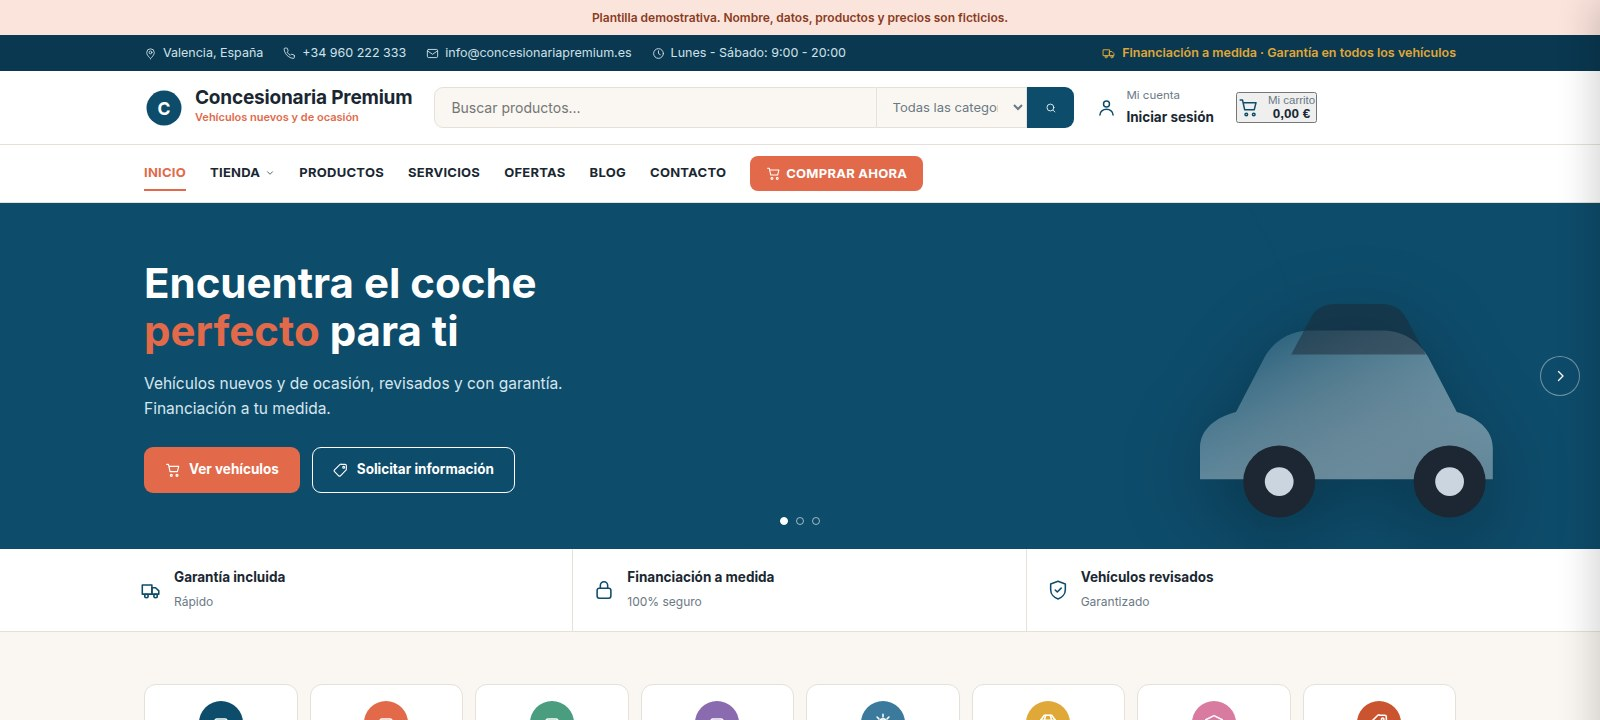
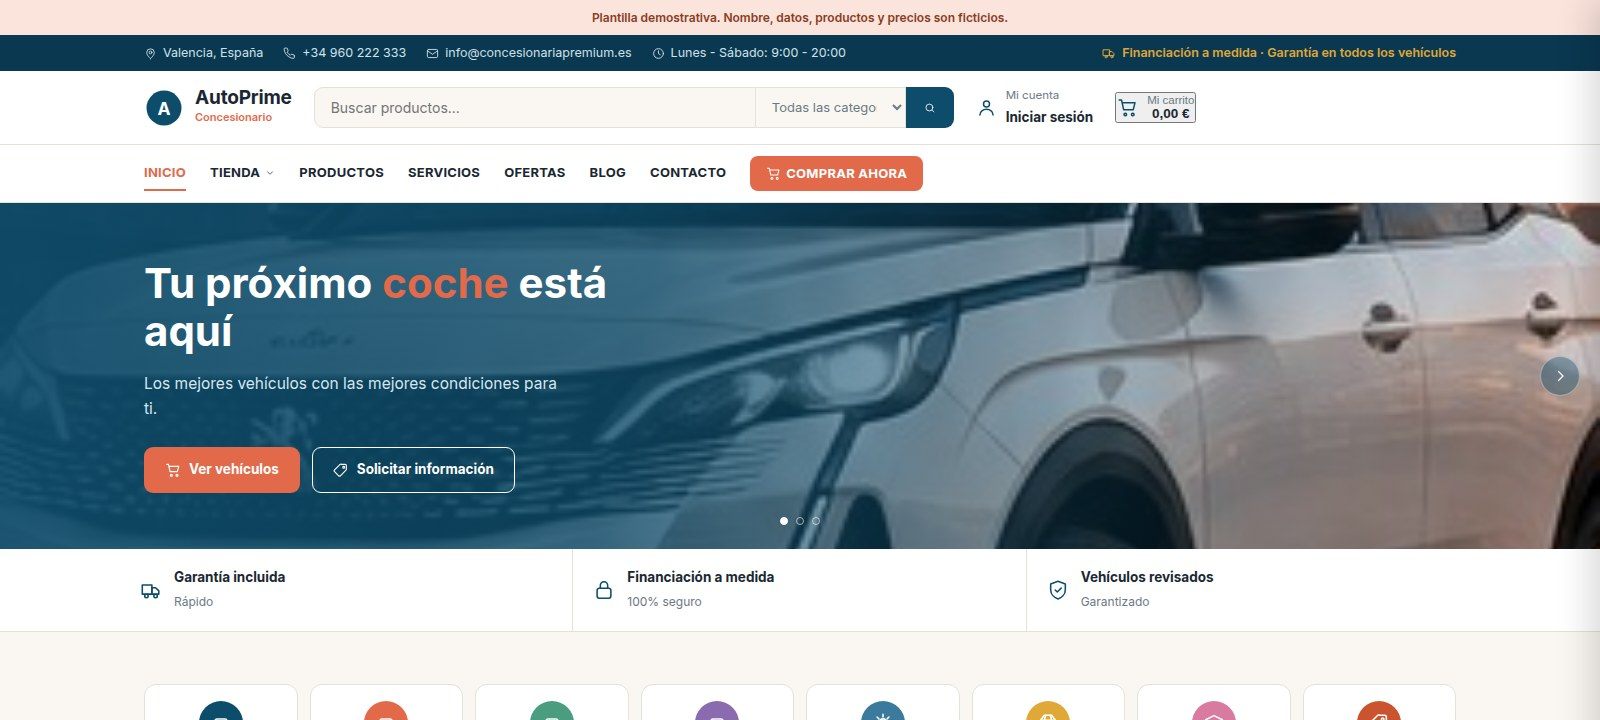
Fotos reales: AutoPrime (Concesionaria de Automóviles)

diff --git a/public/demos/concesionaria-premium/index.html b/public/demos/concesionaria-premium/index.html
@@ -3,7 +3,7 @@
 <head>
 <meta charset="UTF-8">
 <meta name="viewport" content="width=device-width, initial-scale=1.0">
-<title>Concesionaria Premium — Vehículos Nuevos y de Ocasión | Financiación</title>
+<title>AutoPrime — Concesionario | Vehículos Nuevos y de Ocasión</title>
 <meta name="description" content="Concesionaria de automóviles con vehículos nuevos y de ocasión, financiación a medida y garantía. Solicita información o prueba de conducción.">
 <link rel="stylesheet" href="css/style.css">
 </head>
@@ -29,9 +29,9 @@
   <div class="cab-fila1">
     <div class="env">
       <a href="#inicio" class="marca">
-        <svg width="40" height="40" viewBox="0 0 48 48" fill="none" aria-hidden="true"><circle cx="24" cy="24" r="21" fill="var(--azul)"/><text x="24" y="24" text-anchor="middle" dominant-baseline="central" font-family="Poppins, Inter, sans-serif" font-weight="700" font-size="21" fill="#fff">C</text></svg>        <span class="marca-txt">
-          <strong>Concesionaria Premium</strong>
-          <span>Vehículos nuevos y de ocasión</span>
+        <svg width="40" height="40" viewBox="0 0 48 48" fill="none" aria-hidden="true"><circle cx="24" cy="24" r="21" fill="var(--azul)"/><text x="24" y="24" text-anchor="middle" dominant-baseline="central" font-family="Poppins, Inter, sans-serif" font-weight="700" font-size="21" fill="#fff">A</text></svg>        <span class="marca-txt">
+          <strong>AutoPrime</strong>
+          <span>Concesionario</span>
         </span>
       </a>
       <div class="buscador">
@@ -68,13 +68,12 @@
 
 <!-- Portada -->
 <section class="portada" id="inicio">
-  <div class="portada-lienzo"><svg viewBox="0 0 800 560" preserveAspectRatio="xMidYMid slice" style="width:100%;height:100%" aria-hidden="true"><defs><radialGradient id="hg" cx="62%" cy="46%" r="55%"><stop offset="0%" stop-color="#0e4c6b" stop-opacity=".28"/><stop offset="100%" stop-color="#0e4c6b" stop-opacity="0"/></radialGradient></defs><rect width="800" height="560" fill="var(--azul)"/><circle cx="500" cy="280" r="260" fill="url(#hg)"/><circle cx="500" cy="280" r="210" fill="none" stroke="#0e4c6b" stroke-opacity=".18"/><circle cx="500" cy="280" r="150" fill="none" stroke="#0e4c6b" stroke-opacity=".12"/></svg></div>
-    <div class="portada-figuras portada-figuras-escena" aria-hidden="true"><svg viewBox="0 0 300 300" style="width:100%;height:100%;overflow:visible" aria-hidden="true"><defs><linearGradient id="gbbc634" x1="0" y1="0" x2="1" y2="1"><stop offset="0%" stop-color="#0e4c6b"/><stop offset="100%" stop-color="#fff" stop-opacity=".35"/></linearGradient></defs><path d="M20 210c0-16 14-26 30-30l24-46c8-14 22-22 38-22h60c16 0 30 8 38 22l24 46c16 4 30 14 30 30v26H20z" fill="url(#gbbc634)"/><path d="M96 132l16-30c4-8 12-12 20-12h40c8 0 16 4 20 12l16 30z" fill="#1c2733" opacity=".5"/><circle cx="86" cy="238" r="30" fill="#1c2733"/><circle cx="86" cy="238" r="12" fill="#cbd5df"/><circle cx="228" cy="238" r="30" fill="#1c2733"/><circle cx="228" cy="238" r="12" fill="#cbd5df"/></svg></div>
+  <div class="portada-lienzo"><img src="img/hero.jpg" alt="" loading="lazy"></div>
     <div class="portada-vel"></div>
   <div class="env">
     <div class="portada-in">
-      <h1>Encuentra el coche <em>perfecto</em> para ti</h1>
-      <p>Vehículos nuevos y de ocasión, revisados y con garantía. Financiación a tu medida.</p>
+      <h1>Tu próximo <em>coche</em> está aquí</h1>
+      <p>Los mejores vehículos con las mejores condiciones para ti.</p>
       <div class="portada-botones">
         <a href="#tienda" class="btn btn-terra"><svg width="16" height="16" viewBox="0 0 24 24" fill="none" stroke="currentColor" stroke-width="1.7" stroke-linecap="round" stroke-linejoin="round" aria-hidden="true"><circle cx="9.5" cy="20" r="1.5"/><circle cx="18" cy="20" r="1.5"/><path d="M2.5 3.5h2.7l2.4 11h11l2-8H6.3"/></svg>Ver vehículos</a>
         <a href="#servicios" class="btn btn-linea" style="background:transparent;border-color:#fff;color:#fff">
@@ -155,81 +154,97 @@
         <div class="productos">
                       <article class="prod">
               <div class="prod-foto">
-                <div style="width:100%;height:140px;display:flex;align-items:center;justify-content:center;background:var(--crema2);color:var(--azul-cla)"><svg width="30" height="30" viewBox="0 0 24 24" fill="none" stroke="currentColor" stroke-width="1.7" stroke-linecap="round" stroke-linejoin="round" aria-hidden="true"><path d="M3.5 16.5v-3l2-4.5a2 2 0 0 1 1.9-1.3h9.2a2 2 0 0 1 1.9 1.3l2 4.5v3"/><path d="M3.5 16.5h17M3.5 13.5h17"/><circle cx="7" cy="17.5" r="1.7"/><circle cx="17" cy="17.5" r="1.7"/></svg></div>                <span class="prod-eti eti-nuevo">NUEVO</span>                <button type="button" class="fav" aria-label="Añadir a favoritos" data-fav>♥</button>
+                <img src="img/audi-q3.jpg" alt="" loading="lazy">                <span class="prod-eti eti-nuevo">NUEVO</span>                <button type="button" class="fav" aria-label="Añadir a favoritos" data-fav>♥</button>
               </div>
               <div class="prod-cuerpo">
-                <h3>Renault Clio 2024 — 0km</h3>
+                <h3>Audi Q3 35 TFSI Advanced</h3>
                 <div class="estrellas-fila">
                   <span class="estrellas">★★★★★</span>
-                  <span class="num-valoraciones">(38)</span>
+                  <span class="num-valoraciones">(31)</span>
                 </div>
                 <div class="prod-pie">
-                  <span class="prod-precio">16900€</span>
+                  <span class="prod-precio">28900€</span>
                   <button type="button" class="anadir" data-id="p0" aria-label="Añadir al carrito"><svg width="16" height="16" viewBox="0 0 24 24" fill="none" stroke="currentColor" stroke-width="1.7" stroke-linecap="round" stroke-linejoin="round" aria-hidden="true"><circle cx="9.5" cy="20" r="1.5"/><circle cx="18" cy="20" r="1.5"/><path d="M2.5 3.5h2.7l2.4 11h11l2-8H6.3"/></svg></button>
                 </div>
               </div>
             </article>
                       <article class="prod">
               <div class="prod-foto">
-                <div style="width:100%;height:140px;display:flex;align-items:center;justify-content:center;background:var(--crema2);color:var(--azul-cla)"><svg width="30" height="30" viewBox="0 0 24 24" fill="none" stroke="currentColor" stroke-width="1.7" stroke-linecap="round" stroke-linejoin="round" aria-hidden="true"><path d="M3.5 16.5v-3l2-4.5a2 2 0 0 1 1.9-1.3h9.2a2 2 0 0 1 1.9 1.3l2 4.5v3"/><path d="M3.5 16.5h17M3.5 13.5h17"/><circle cx="7" cy="17.5" r="1.7"/><circle cx="17" cy="17.5" r="1.7"/></svg></div>                <span class="prod-eti eti-nuevo">-9%</span>                <button type="button" class="fav" aria-label="Añadir a favoritos" data-fav>♥</button>
+                <img src="img/bmw-serie1.jpg" alt="" loading="lazy">                <span class="prod-eti eti-nuevo">ÚNICO DUEÑO</span>                <button type="button" class="fav" aria-label="Añadir a favoritos" data-fav>♥</button>
               </div>
               <div class="prod-cuerpo">
-                <h3>Volkswagen Tiguan 2022 — Ocasión</h3>
+                <h3>BMW Serie 1 118i Sport</h3>
                 <div class="estrellas-fila">
                   <span class="estrellas">★★★★★</span>
-                  <span class="num-valoraciones">(22)</span>
+                  <span class="num-valoraciones">(19)</span>
                 </div>
                 <div class="prod-pie">
-                  <span class="prod-precio">24900€<small>27500€</small></span>
+                  <span class="prod-precio">21500€</span>
                   <button type="button" class="anadir" data-id="p1" aria-label="Añadir al carrito"><svg width="16" height="16" viewBox="0 0 24 24" fill="none" stroke="currentColor" stroke-width="1.7" stroke-linecap="round" stroke-linejoin="round" aria-hidden="true"><circle cx="9.5" cy="20" r="1.5"/><circle cx="18" cy="20" r="1.5"/><path d="M2.5 3.5h2.7l2.4 11h11l2-8H6.3"/></svg></button>
                 </div>
               </div>
             </article>
                       <article class="prod">
               <div class="prod-foto">
-                <div style="width:100%;height:140px;display:flex;align-items:center;justify-content:center;background:var(--crema2);color:var(--azul-cla)"><svg width="30" height="30" viewBox="0 0 24 24" fill="none" stroke="currentColor" stroke-width="1.7" stroke-linecap="round" stroke-linejoin="round" aria-hidden="true"><path d="M3.5 16.5v-3l2-4.5a2 2 0 0 1 1.9-1.3h9.2a2 2 0 0 1 1.9 1.3l2 4.5v3"/><path d="M3.5 16.5h17M3.5 13.5h17"/><circle cx="7" cy="17.5" r="1.7"/><circle cx="17" cy="17.5" r="1.7"/></svg></div>                <span class="prod-eti eti-top">TOP</span>                <button type="button" class="fav" aria-label="Añadir a favoritos" data-fav>♥</button>
+                <img src="img/vw-troc.jpg" alt="" loading="lazy">                <span class="prod-eti eti-nuevo">NUEVO</span>                <button type="button" class="fav" aria-label="Añadir a favoritos" data-fav>♥</button>
               </div>
               <div class="prod-cuerpo">
-                <h3>Peugeot 208 2023 — Km 0</h3>
+                <h3>Volkswagen T-Roc 1.5 TSI Style</h3>
                 <div class="estrellas-fila">
                   <span class="estrellas">★★★★★</span>
-                  <span class="num-valoraciones">(29)</span>
+                  <span class="num-valoraciones">(27)</span>
                 </div>
                 <div class="prod-pie">
-                  <span class="prod-precio">17500€</span>
+                  <span class="prod-precio">29900€</span>
                   <button type="button" class="anadir" data-id="p2" aria-label="Añadir al carrito"><svg width="16" height="16" viewBox="0 0 24 24" fill="none" stroke="currentColor" stroke-width="1.7" stroke-linecap="round" stroke-linejoin="round" aria-hidden="true"><circle cx="9.5" cy="20" r="1.5"/><circle cx="18" cy="20" r="1.5"/><path d="M2.5 3.5h2.7l2.4 11h11l2-8H6.3"/></svg></button>
                 </div>
               </div>
             </article>
                       <article class="prod">
               <div class="prod-foto">
-                <div style="width:100%;height:140px;display:flex;align-items:center;justify-content:center;background:var(--crema2);color:var(--azul-cla)"><svg width="30" height="30" viewBox="0 0 24 24" fill="none" stroke="currentColor" stroke-width="1.7" stroke-linecap="round" stroke-linejoin="round" aria-hidden="true"><circle cx="12" cy="12" r="4.5"/><path d="M12 2.5v3M12 18.5v3M21.5 12h-3M5.5 12h-3M18.5 5.5l-2 2M7.5 16.5l-2 2M18.5 18.5l-2-2M7.5 7.5l-2-2"/></svg></div>                <span class="prod-eti eti-nuevo">-9%</span>                <button type="button" class="fav" aria-label="Añadir a favoritos" data-fav>♥</button>
+                <img src="img/mercedes-clasea.jpg" alt="" loading="lazy">                <span class="prod-eti eti-oferta">OFERTA</span>                <button type="button" class="fav" aria-label="Añadir a favoritos" data-fav>♥</button>
               </div>
               <div class="prod-cuerpo">
-                <h3>Tesla Model Y 2023 — Ocasión</h3>
+                <h3>Mercedes Clase A 180 Style</h3>
                 <div class="estrellas-fila">
-                  <span class="estrellas">★★★★★</span>
-                  <span class="num-valoraciones">(14)</span>
+                  <span class="estrellas">★★★★☆</span>
+                  <span class="num-valoraciones">(16)</span>
                 </div>
                 <div class="prod-pie">
-                  <span class="prod-precio">38900€<small>42900€</small></span>
+                  <span class="prod-precio">24900€</span>
                   <button type="button" class="anadir" data-id="p3" aria-label="Añadir al carrito"><svg width="16" height="16" viewBox="0 0 24 24" fill="none" stroke="currentColor" stroke-width="1.7" stroke-linecap="round" stroke-linejoin="round" aria-hidden="true"><circle cx="9.5" cy="20" r="1.5"/><circle cx="18" cy="20" r="1.5"/><path d="M2.5 3.5h2.7l2.4 11h11l2-8H6.3"/></svg></button>
                 </div>
               </div>
             </article>
                       <article class="prod">
               <div class="prod-foto">
-                <div style="width:100%;height:140px;display:flex;align-items:center;justify-content:center;background:var(--crema2);color:var(--azul-cla)"><svg width="30" height="30" viewBox="0 0 24 24" fill="none" stroke="currentColor" stroke-width="1.7" stroke-linecap="round" stroke-linejoin="round" aria-hidden="true"><path d="M3.5 16.5v-3l2-4.5a2 2 0 0 1 1.9-1.3h9.2a2 2 0 0 1 1.9 1.3l2 4.5v3"/><path d="M3.5 16.5h17M3.5 13.5h17"/><circle cx="7" cy="17.5" r="1.7"/><circle cx="17" cy="17.5" r="1.7"/></svg></div>                                <button type="button" class="fav" aria-label="Añadir a favoritos" data-fav>♥</button>
+                <img src="img/toyota-chr.jpg" alt="" loading="lazy">                <span class="prod-eti eti-nuevo">KM 0</span>                <button type="button" class="fav" aria-label="Añadir a favoritos" data-fav>♥</button>
               </div>
               <div class="prod-cuerpo">
-                <h3>Audi A3 2021 — Ocasión</h3>
+                <h3>Toyota C-HR 125H Advance</h3>
                 <div class="estrellas-fila">
-                  <span class="estrellas">★★★★☆</span>
-                  <span class="num-valoraciones">(18)</span>
+                  <span class="estrellas">★★★★★</span>
+                  <span class="num-valoraciones">(22)</span>
                 </div>
                 <div class="prod-pie">
-                  <span class="prod-precio">21900€</span>
+                  <span class="prod-precio">26900€</span>
                   <button type="button" class="anadir" data-id="p4" aria-label="Añadir al carrito"><svg width="16" height="16" viewBox="0 0 24 24" fill="none" stroke="currentColor" stroke-width="1.7" stroke-linecap="round" stroke-linejoin="round" aria-hidden="true"><circle cx="9.5" cy="20" r="1.5"/><circle cx="18" cy="20" r="1.5"/><path d="M2.5 3.5h2.7l2.4 11h11l2-8H6.3"/></svg></button>
+                </div>
+              </div>
+            </article>
+                      <article class="prod">
+              <div class="prod-foto">
+                <img src="img/ford-kuga.jpg" alt="" loading="lazy">                <span class="prod-eti eti-nuevo">TURBO</span>                <button type="button" class="fav" aria-label="Añadir a favoritos" data-fav>♥</button>
+              </div>
+              <div class="prod-cuerpo">
+                <h3>Ford Kuga 1.5 EcoBoost ST-Line</h3>
+                <div class="estrellas-fila">
+                  <span class="estrellas">★★★★★</span>
+                  <span class="num-valoraciones">(14)</span>
+                </div>
+                <div class="prod-pie">
+                  <span class="prod-precio">23900€</span>
+                  <button type="button" class="anadir" data-id="p5" aria-label="Añadir al carrito"><svg width="16" height="16" viewBox="0 0 24 24" fill="none" stroke="currentColor" stroke-width="1.7" stroke-linecap="round" stroke-linejoin="round" aria-hidden="true"><circle cx="9.5" cy="20" r="1.5"/><circle cx="18" cy="20" r="1.5"/><path d="M2.5 3.5h2.7l2.4 11h11l2-8H6.3"/></svg></button>
                 </div>
               </div>
             </article>
@@ -331,7 +346,7 @@
     <div class="pie-rejilla">
       <div>
         <div class="marca" style="margin-bottom:14px">
-          <svg width="36" height="36" viewBox="0 0 48 48" fill="none" aria-hidden="true"><circle cx="24" cy="24" r="21" fill="var(--azul)"/><text x="24" y="24" text-anchor="middle" dominant-baseline="central" font-family="Poppins, Inter, sans-serif" font-weight="700" font-size="21" fill="#fff">C</text></svg>          <span class="marca-txt"><strong>Concesionaria Premium</strong></span>
+          <svg width="36" height="36" viewBox="0 0 48 48" fill="none" aria-hidden="true"><circle cx="24" cy="24" r="21" fill="var(--azul)"/><text x="24" y="24" text-anchor="middle" dominant-baseline="central" font-family="Poppins, Inter, sans-serif" font-weight="700" font-size="21" fill="#fff">A</text></svg>          <span class="marca-txt"><strong>AutoPrime</strong></span>
         </div>
         <p>Avenida de las Cortes Valencianas, 45 · 46015 Valencia<br>+34 960 222 333<br>info@concesionariapremium.es</p>
       </div>
@@ -357,7 +372,7 @@
               </div>
     </div>
     <div class="pie-abajo">
-      <span>© <span id="anio">2026</span> Concesionaria Premium. Todos los derechos reservados.</span>
+      <span>© <span id="anio">2026</span> AutoPrime. Todos los derechos reservados.</span>
       <span>Plantilla demostrativa · Aviso legal · Privacidad · Cookies</span>
     </div>
   </div>
@@ -376,8 +391,8 @@
 
   <a class="wa" href="https://wa.me/34600222333?text=Hola%2C%20quiero%20informaci%C3%B3n%20sobre%20un%20veh%C3%ADculo." target="_blank" rel="noopener" aria-label="WhatsApp"><svg width="26" height="26" viewBox="0 0 24 24" fill="none" stroke="currentColor" stroke-width="1.7" stroke-linecap="round" stroke-linejoin="round" aria-hidden="true"><path d="M20.5 11.6a8.5 8.5 0 0 1-12.6 7.5L3.5 20.5l1.4-4.3A8.5 8.5 0 1 1 20.5 11.6z"/><path d="M8.9 8.4c.3-.7.6-.7.9-.7h.6c.2 0 .5 0 .7.5l.8 1.9c.1.2 0 .4-.1.6l-.4.5c-.1.2-.3.4-.1.7.2.4.9 1.4 1.9 2 1.2.7 1.4.5 1.7.5.2-.1.6-.5.7-.7.2-.2.3-.2.5-.1l1.8.9c.3.1.4.2.5.4 0 .2 0 .9-.3 1.3-.4.5-1.1.9-1.6.9-1.1.1-2.6-.3-4.4-1.5-2.1-1.4-3.4-3.5-3.5-3.7-.1-.2-.8-1.2-.8-2.3 0-1 .5-1.5.7-1.7z"/></svg></a>
 
-<script type="application/json" id="datosCatalogo">[{"id":"p0","nombre":"Renault Clio 2024 — 0km","precio":16900,"imagen":""},{"id":"p1","nombre":"Volkswagen Tiguan 2022 — Ocasión","precio":24900,"imagen":""},{"id":"p2","nombre":"Peugeot 208 2023 — Km 0","precio":17500,"imagen":""},{"id":"p3","nombre":"Tesla Model Y 2023 — Ocasión","precio":38900,"imagen":""},{"id":"p4","nombre":"Audi A3 2021 — Ocasión","precio":21900,"imagen":""}]</script>
-<script type="application/json" id="datosEnvio">{"whatsapp":"34600222333","negocio":"Concesionaria Premium"}</script>
+<script type="application/json" id="datosCatalogo">[{"id":"p0","nombre":"Audi Q3 35 TFSI Advanced","precio":28900,"imagen":"img\/audi-q3.jpg"},{"id":"p1","nombre":"BMW Serie 1 118i Sport","precio":21500,"imagen":"img\/bmw-serie1.jpg"},{"id":"p2","nombre":"Volkswagen T-Roc 1.5 TSI Style","precio":29900,"imagen":"img\/vw-troc.jpg"},{"id":"p3","nombre":"Mercedes Clase A 180 Style","precio":24900,"imagen":"img\/mercedes-clasea.jpg"},{"id":"p4","nombre":"Toyota C-HR 125H Advance","precio":26900,"imagen":"img\/toyota-chr.jpg"},{"id":"p5","nombre":"Ford Kuga 1.5 EcoBoost ST-Line","precio":23900,"imagen":"img\/ford-kuga.jpg"}]</script>
+<script type="application/json" id="datosEnvio">{"whatsapp":"34600222333","negocio":"AutoPrime"}</script>
 <script src="js/main.js"></script>
 </body>
 </html>

diff --git a/public/demos/concesionaria-premium/css/style.css b/public/demos/concesionaria-premium/css/style.css
@@ -366,5 +366,3 @@ h3{font-size:16px;font-weight:700}
   .portada-botones .btn{flex:1}
   .barra-top .izq span:nth-child(n+2){display:none}
 }
-
-html,body{overflow-x:hidden;max-width:100%}
